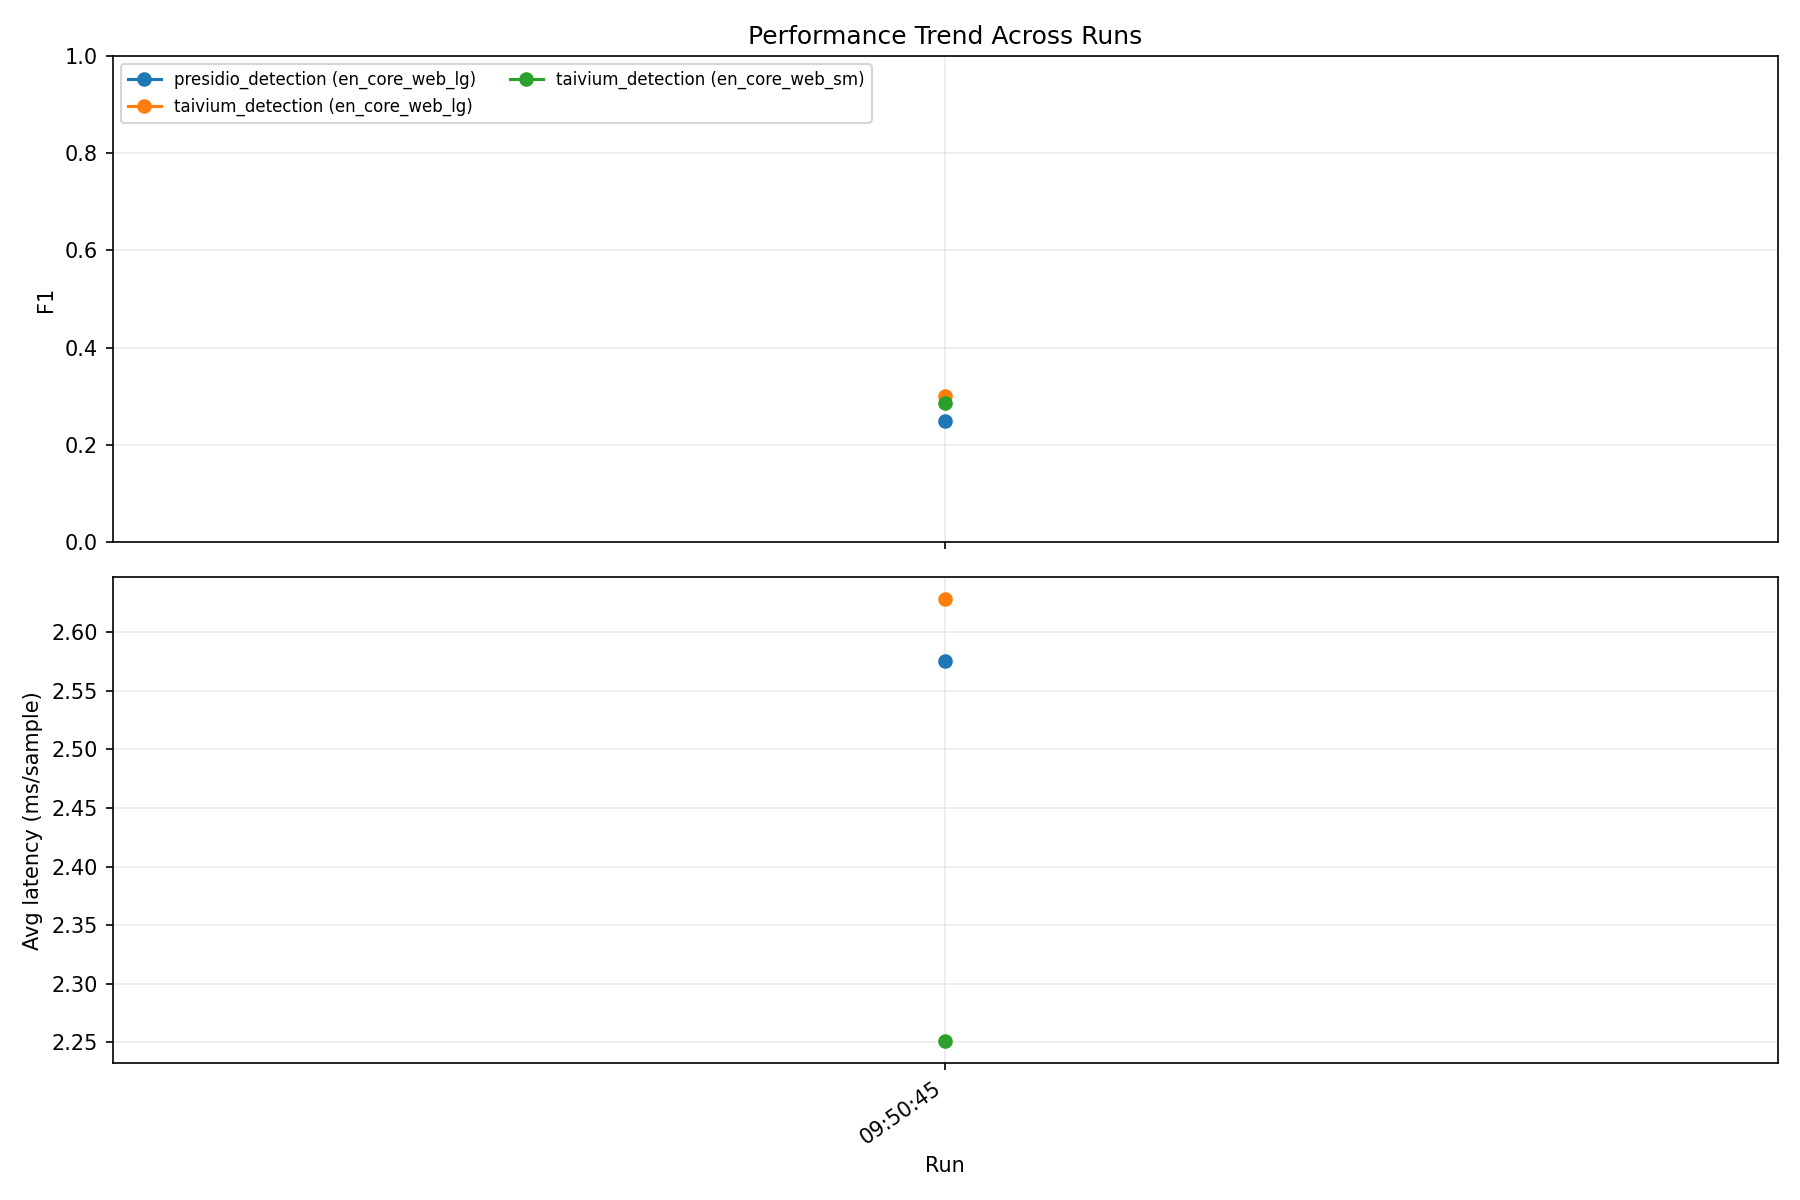
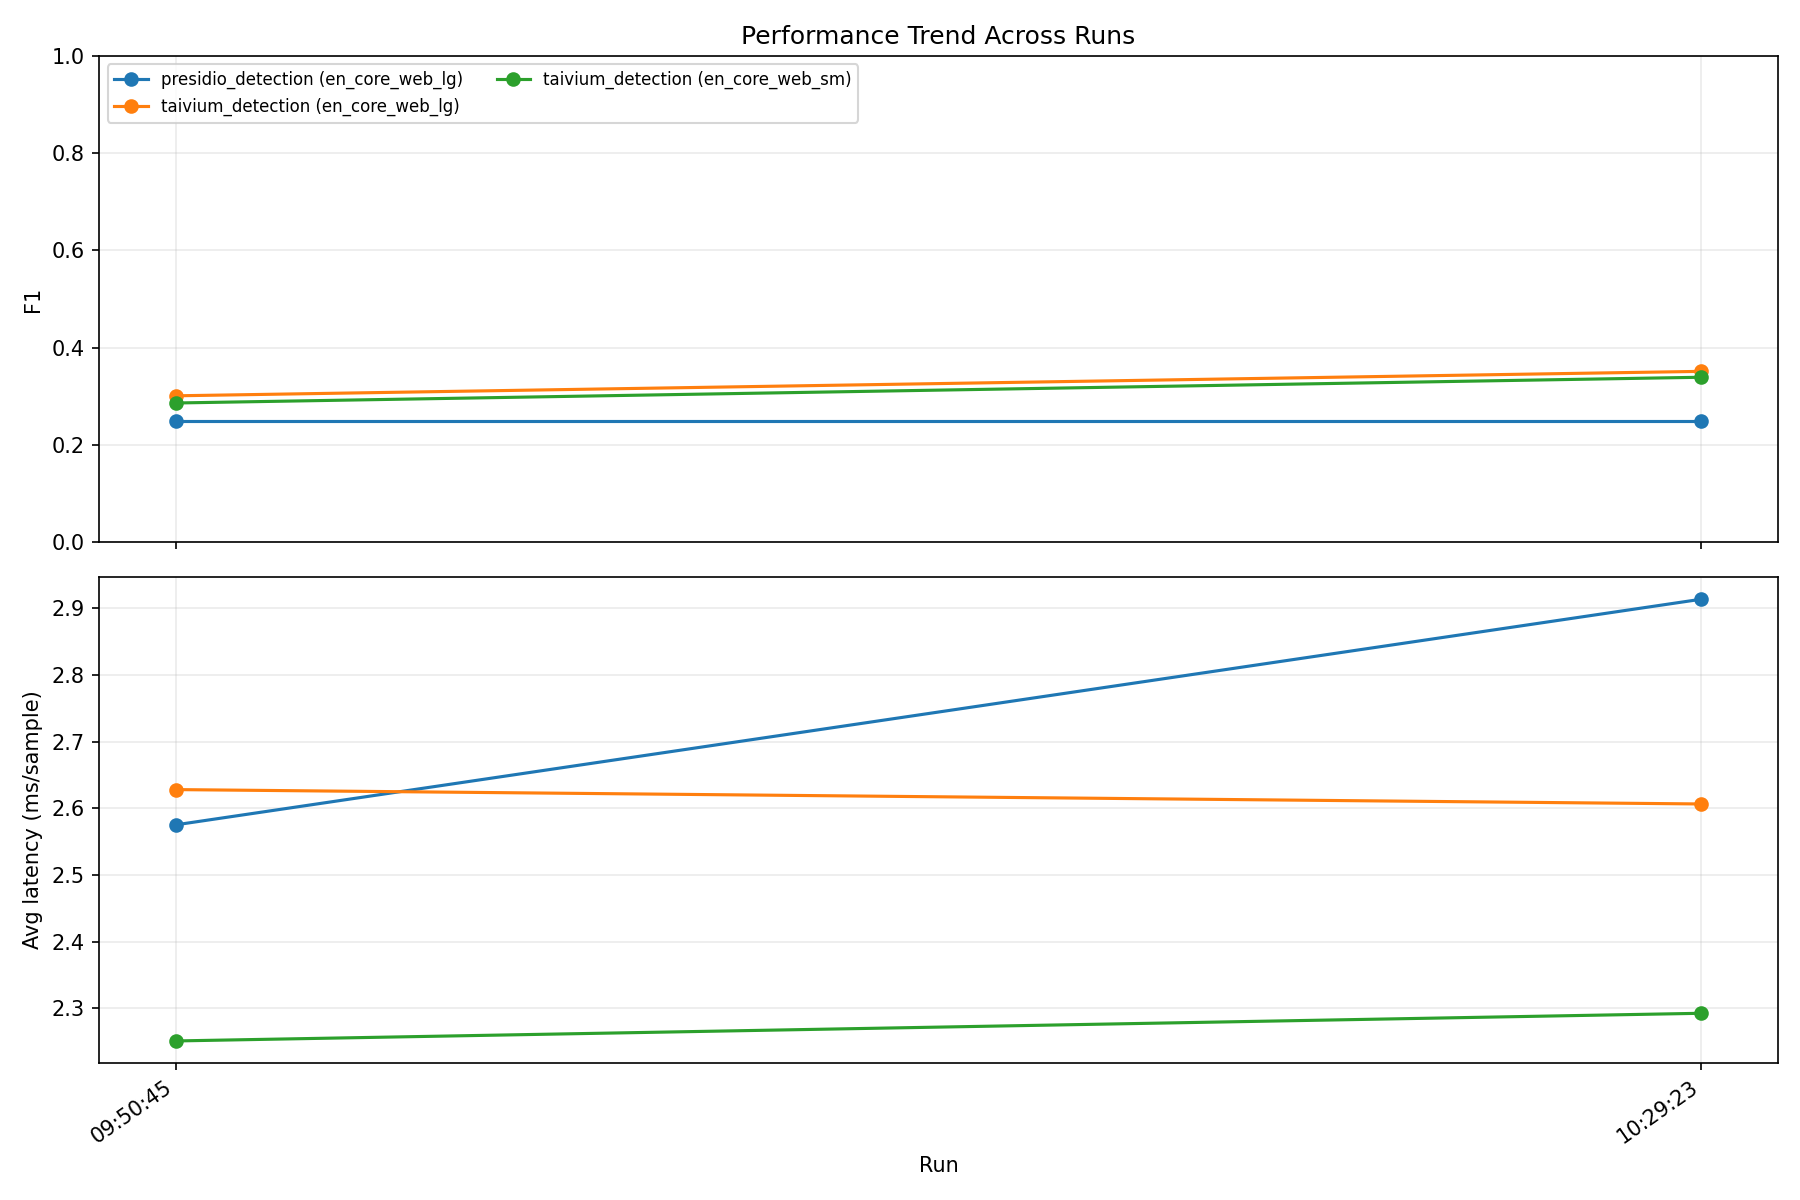
fix: update performance report timestamp and metrics for latest evaluation run

diff --git a/web/index.html b/web/index.html
@@ -49,7 +49,7 @@
   <div class="shell">
     <section class="hero">
       <h1>Taivium Latest Performance Report</h1>
-      <p class="meta">Generated: 2026-06-04 09:50:45 UTC | Dataset: ai4privacy/pii-masking-300k | Profile: privacy</p>      <p class="meta">Hardware: MacBook Pro · Apple M2 Pro · 10-core</p>      <p class="meta">Source delta file: dd95c8795d1cdb2531b933f771ab4128__presidio_detection__en_core_web_lg_delta_matrices.json</p>
+      <p class="meta">Generated: 2026-06-04 10:29:23 UTC | Dataset: ai4privacy/pii-masking-300k | Profile: privacy</p>      <p class="meta">Hardware: MacBook Pro · Apple M2 Pro · 10-core</p>      <p class="meta">Source delta file: e5eb548556e73ebc6be3e1460167b420__presidio_detection__en_core_web_lg_delta_matrices.json</p>
     </section>
 
     <section class="panel">
@@ -61,26 +61,26 @@
           </tr>
         </thead>
         <tbody>
-          <tr><td>presidio_detection</td><td>en_core_web_lg</td><td>0.264414</td><td>0.233456</td><td>0.247972</td><td class="neutral">+0.0000</td><td>2.575</td><td class="good">-0.13</td></tr><tr><td>taivium_detection</td><td>en_core_web_sm</td><td>0.295842</td><td>0.276528</td><td>0.285859</td><td class="neutral">+0.0000</td><td>2.251</td><td class="good">-0.02</td></tr><tr><td>taivium_detection</td><td>en_core_web_lg</td><td>0.301186</td><td>0.300116</td><td>0.300650</td><td class="neutral">+0.0000</td><td>2.628</td><td class="bad">+0.03</td></tr>
+          <tr><td>presidio_detection</td><td>en_core_web_lg</td><td>0.264414</td><td>0.233456</td><td>0.247972</td><td class="neutral">+0.0000</td><td>2.913</td><td class="bad">+0.34</td></tr><tr><td>taivium_detection</td><td>en_core_web_sm</td><td>0.332536</td><td>0.345415</td><td>0.338853</td><td class="good">+0.0530</td><td>2.293</td><td class="bad">+0.04</td></tr><tr><td>taivium_detection</td><td>en_core_web_lg</td><td>0.334582</td><td>0.369060</td><td>0.350976</td><td class="good">+0.0503</td><td>2.606</td><td class="good">-0.02</td></tr>
         </tbody>
       </table></div>
     </section>
 
-        <section class="panel"><h2>Performance Trend</h2><p class="meta">Historical trend for F1 and timing across runs.</p><div class="trend-grid"><img src="assets/ai4privacy_pii-masking-300k_privacy_performance_trend.png" alt="Performance trend chart" style="width:100%;border:1px solid var(--line);border-radius:10px;" /><div><h3>Last 5 Runs (F1)</h3><div class="table-wrap"><table class="trend-mini"><thead><tr><th>Run</th><th>presidio_detection (en_core_web_lg)</th><th>taivium_detection (en_core_web_sm)</th><th>taivium_detection (en_core_web_lg)</th></tr></thead><tbody><tr><th>2026-06-04 09:23:20 UTC</th><td>0.2480</td><td>0.2859</td><td>0.3006</td></tr><tr><th>2026-06-04 09:50:45 UTC</th><td>0.2480</td><td>0.2859</td><td>0.3006</td></tr></tbody></table></div></div></div></section>
+        <section class="panel"><h2>Performance Trend</h2><p class="meta">Historical trend for F1 and timing across runs.</p><div class="trend-grid"><img src="assets/ai4privacy_pii-masking-300k_privacy_performance_trend.png" alt="Performance trend chart" style="width:100%;border:1px solid var(--line);border-radius:10px;" /><div><h3>Last 5 Runs (F1)</h3><div class="table-wrap"><table class="trend-mini"><thead><tr><th>Run</th><th>presidio_detection (en_core_web_lg)</th><th>taivium_detection (en_core_web_sm)</th><th>taivium_detection (en_core_web_lg)</th></tr></thead><tbody><tr><th>2026-06-04 09:23:20 UTC</th><td>0.2480</td><td>0.2859</td><td>0.3006</td></tr><tr><th>2026-06-04 09:50:45 UTC</th><td>0.2480</td><td>0.2859</td><td>0.3006</td></tr><tr><th>2026-06-04 10:29:23 UTC</th><td>0.2480</td><td>0.3389</td><td>0.3510</td></tr></tbody></table></div></div></div></section>
     <section class="panel"><h2>Dataset Distribution</h2><p class="meta">Label distribution for ai4privacy/pii-masking-300k (privacy profile)</p><div style="text-align:center;"><img src="assets/ai4privacy_pii-masking-300k_privacy_label_distribution.png" alt="Label distribution chart" style="max-width:100%;height:auto;border:1px solid var(--line);border-radius:10px;" /></div></section>
     <section class="panel">
       <h2>Comparison Matrices</h2>
       <p class="meta">Cell value is Δ(column - row). For timing, negative values are better (faster).</p>
       <div class="legend"><span class="g">better</span><span class="b">worse</span><span class="n">same</span></div>
     </section>
-    <section class="panel"><h3>PRECISION Delta Matrix</h3><div class="table-wrap"><table><thead><tr><th>Baseline \ Compare</th><th>presidio_detection (en_core_web_lg)</th><th>taivium_detection (en_core_web_sm)</th><th>taivium_detection (en_core_web_lg)</th></tr></thead><tbody><tr><th>presidio_detection (en_core_web_lg)</th><td class="neutral">+0.0000</td><td class="good">+0.0314</td><td class="good">+0.0368</td></tr><tr><th>taivium_detection (en_core_web_sm)</th><td class="bad">-0.0314</td><td class="neutral">+0.0000</td><td class="good">+0.0053</td></tr><tr><th>taivium_detection (en_core_web_lg)</th><td class="bad">-0.0368</td><td class="bad">-0.0053</td><td class="neutral">+0.0000</td></tr></tbody></table></div></section><section class="panel"><h3>RECALL Delta Matrix</h3><div class="table-wrap"><table><thead><tr><th>Baseline \ Compare</th><th>presidio_detection (en_core_web_lg)</th><th>taivium_detection (en_core_web_sm)</th><th>taivium_detection (en_core_web_lg)</th></tr></thead><tbody><tr><th>presidio_detection (en_core_web_lg)</th><td class="neutral">+0.0000</td><td class="good">+0.0431</td><td class="good">+0.0667</td></tr><tr><th>taivium_detection (en_core_web_sm)</th><td class="bad">-0.0431</td><td class="neutral">+0.0000</td><td class="good">+0.0236</td></tr><tr><th>taivium_detection (en_core_web_lg)</th><td class="bad">-0.0667</td><td class="bad">-0.0236</td><td class="neutral">+0.0000</td></tr></tbody></table></div></section><section class="panel"><h3>F1 Delta Matrix</h3><div class="table-wrap"><table><thead><tr><th>Baseline \ Compare</th><th>presidio_detection (en_core_web_lg)</th><th>taivium_detection (en_core_web_sm)</th><th>taivium_detection (en_core_web_lg)</th></tr></thead><tbody><tr><th>presidio_detection (en_core_web_lg)</th><td class="neutral">+0.0000</td><td class="good">+0.0379</td><td class="good">+0.0527</td></tr><tr><th>taivium_detection (en_core_web_sm)</th><td class="bad">-0.0379</td><td class="neutral">+0.0000</td><td class="good">+0.0148</td></tr><tr><th>taivium_detection (en_core_web_lg)</th><td class="bad">-0.0527</td><td class="bad">-0.0148</td><td class="neutral">+0.0000</td></tr></tbody></table></div></section>
+    <section class="panel"><h3>PRECISION Delta Matrix</h3><div class="table-wrap"><table><thead><tr><th>Baseline \ Compare</th><th>presidio_detection (en_core_web_lg)</th><th>taivium_detection (en_core_web_sm)</th><th>taivium_detection (en_core_web_lg)</th></tr></thead><tbody><tr><th>presidio_detection (en_core_web_lg)</th><td class="neutral">+0.0000</td><td class="good">+0.0681</td><td class="good">+0.0702</td></tr><tr><th>taivium_detection (en_core_web_sm)</th><td class="bad">-0.0681</td><td class="neutral">+0.0000</td><td class="good">+0.0020</td></tr><tr><th>taivium_detection (en_core_web_lg)</th><td class="bad">-0.0702</td><td class="bad">-0.0020</td><td class="neutral">+0.0000</td></tr></tbody></table></div></section><section class="panel"><h3>RECALL Delta Matrix</h3><div class="table-wrap"><table><thead><tr><th>Baseline \ Compare</th><th>presidio_detection (en_core_web_lg)</th><th>taivium_detection (en_core_web_sm)</th><th>taivium_detection (en_core_web_lg)</th></tr></thead><tbody><tr><th>presidio_detection (en_core_web_lg)</th><td class="neutral">+0.0000</td><td class="good">+0.1120</td><td class="good">+0.1356</td></tr><tr><th>taivium_detection (en_core_web_sm)</th><td class="bad">-0.1120</td><td class="neutral">+0.0000</td><td class="good">+0.0236</td></tr><tr><th>taivium_detection (en_core_web_lg)</th><td class="bad">-0.1356</td><td class="bad">-0.0236</td><td class="neutral">+0.0000</td></tr></tbody></table></div></section><section class="panel"><h3>F1 Delta Matrix</h3><div class="table-wrap"><table><thead><tr><th>Baseline \ Compare</th><th>presidio_detection (en_core_web_lg)</th><th>taivium_detection (en_core_web_sm)</th><th>taivium_detection (en_core_web_lg)</th></tr></thead><tbody><tr><th>presidio_detection (en_core_web_lg)</th><td class="neutral">+0.0000</td><td class="good">+0.0909</td><td class="good">+0.1030</td></tr><tr><th>taivium_detection (en_core_web_sm)</th><td class="bad">-0.0909</td><td class="neutral">+0.0000</td><td class="good">+0.0121</td></tr><tr><th>taivium_detection (en_core_web_lg)</th><td class="bad">-0.1030</td><td class="bad">-0.0121</td><td class="neutral">+0.0000</td></tr></tbody></table></div></section>
 
     <section class="panel">
       <h2>Latency Comparison</h2>
       <p class="meta">Pairwise latency comparison (ms/sample). Derived from this run's timing data.</p>
       <div class="legend"><span class="g">faster</span><span class="b">slower</span><span class="n">same</span></div>
     </section>
-    <section class="panel"><h3>TIMING Latency Delta Matrix</h3><p class="meta">Cell value is Δ ms/sample (column − row) and relative % change. Negative (green) means column model is faster than row model.</p><div class="table-wrap"><table><thead><tr><th>Baseline \ Compare</th><th>presidio_detection (en_core_web_lg)</th><th>taivium_detection (en_core_web_sm)</th><th>taivium_detection (en_core_web_lg)</th></tr></thead><tbody><tr><th>presidio_detection (en_core_web_lg)</th><td class="neutral">+0.0000</td><td class="good">-0.3240 (-12.6%)</td><td class="bad">+0.0529 (+2.1%)</td></tr><tr><th>taivium_detection (en_core_web_sm)</th><td class="bad">+0.3240 (+14.4%)</td><td class="neutral">+0.0000</td><td class="bad">+0.3768 (+16.7%)</td></tr><tr><th>taivium_detection (en_core_web_lg)</th><td class="good">-0.0529 (-2.0%)</td><td class="good">-0.3768 (-14.3%)</td><td class="neutral">+0.0000</td></tr></tbody></table></div></section>
+    <section class="panel"><h3>TIMING Latency Delta Matrix</h3><p class="meta">Cell value is Δ ms/sample (column − row) and relative % change. Negative (green) means column model is faster than row model.</p><div class="table-wrap"><table><thead><tr><th>Baseline \ Compare</th><th>presidio_detection (en_core_web_lg)</th><th>taivium_detection (en_core_web_sm)</th><th>taivium_detection (en_core_web_lg)</th></tr></thead><tbody><tr><th>presidio_detection (en_core_web_lg)</th><td class="neutral">+0.0000</td><td class="good">-0.6207 (-21.3%)</td><td class="good">-0.3069 (-10.5%)</td></tr><tr><th>taivium_detection (en_core_web_sm)</th><td class="bad">+0.6207 (+27.1%)</td><td class="neutral">+0.0000</td><td class="bad">+0.3138 (+13.7%)</td></tr><tr><th>taivium_detection (en_core_web_lg)</th><td class="bad">+0.3069 (+11.8%)</td><td class="good">-0.3138 (-12.0%)</td><td class="neutral">+0.0000</td></tr></tbody></table></div></section>
 
     <section class="panel">
       <h2>Methodology</h2>
